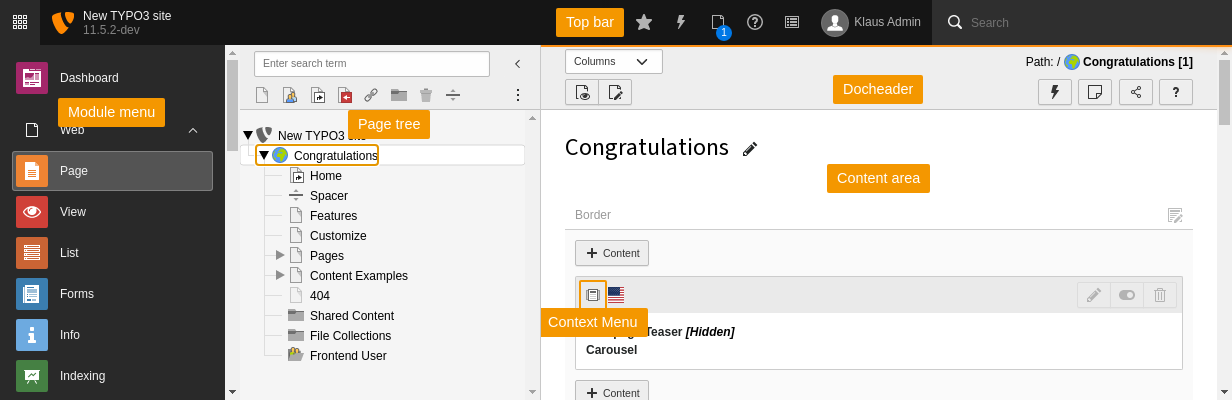
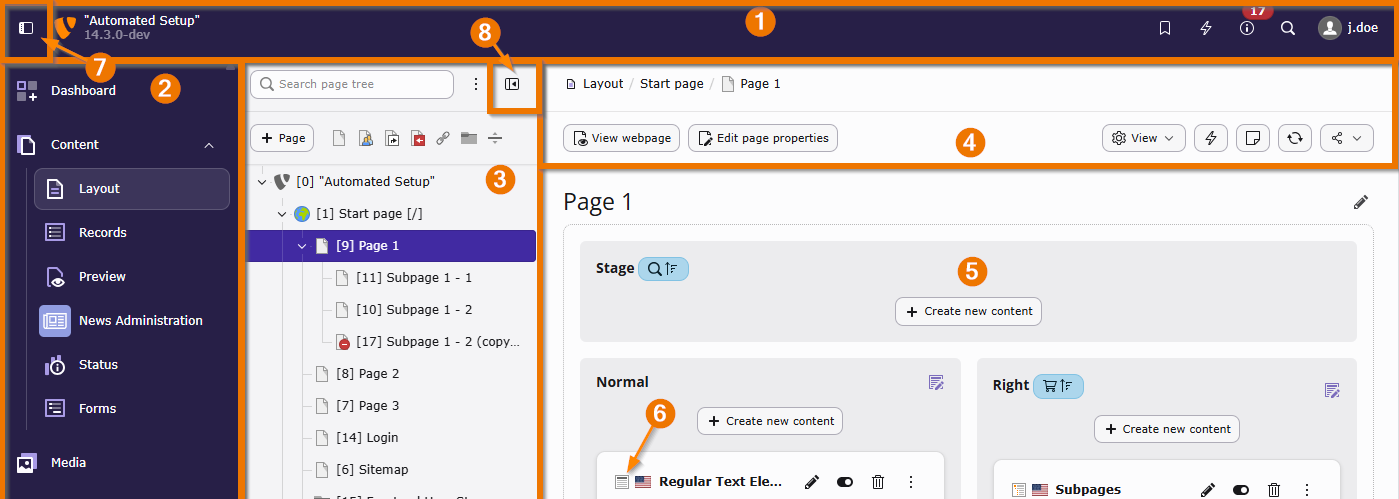
[TASK] Improve Backend GUI section including screenshots
Releases: main

diff --git a/Documentation/ApiOverview/Backend/BackendModules/BackendGUI.rst b/Documentation/ApiOverview/Backend/BackendModules/BackendGUI.rst
@@ -1,69 +1,88 @@
-.. include:: /Includes.rst.txt
-.. index:: ! Backend GUI
-.. _backend-gui:
-.. _backend-modules-structure:
+..  include:: /Includes.rst.txt
+..  index:: ! Backend GUI
+..  _backend-gui:
+..  _backend-modules-structure:
 
 ===========
 Backend GUI
 ===========
 
-The backend user interface is essentially driven by the "backend"
-system extension and extended by many other system extensions.
+The backend user interface is primarily provided by the :composer:`typo3/cms-backend`
+system extension nd extended by additional system and third-party extensions.
 
-It is divided into the following main areas:
+The backend interface is divided into the following main areas:
 
-.. include:: /Images/ManualScreenshots/BackendModules/BackendModulesAreas.rst.txt
+..  figure:: /Images/ManualScreenshots/BackendModules/BackendModulesAreas.png
+    :zoom: lightbox
+    :alt: An overview of the visual structure of the backend, the sections are marked with numbers
 
-Top bar
-  The top bar is always present. It is itself divided into two
-  areas: the logo and top bar tools.
+    An overview of the backend interface: (1) top bar, (2) module menu,
+    (3) page tree / navigation frame, (4) DocHeader, (5) content area,
+    (6) contextual menu, (7) module menu toggle, (8) page tree toggle
 
-  The logo can be changed using the :php:`$GLOBALS['TYPO3_CONF_VARS']['EXTENSIONS']['backend']['backendLogo']` option.
-  Additional top bar tools can be registered using
-  :php:`$GLOBALS['TYPO3_CONF_VARS']['BE']['toolbarItems']`.
+..  figure:: /Images/ManualScreenshots/BackendModules/BackendModuleCollapsed.png
+    :zoom: lightbox
+    :alt: Backend with collapsed module menu and page tree, showing toggles
 
-Module menu
-  This is the main navigation. All modules are structured in main
-  modules (which can be collapsed) and submodules which is where
-  the action really happens.
+    Collapsed navigation areas: (1) module menu toggle, (2) page tree toggle
 
-  The module menu can be opened or closed by using the icon on the top left.
+1.  Top bar
 
-  The chapter :ref:`backend-modules-configuration` describes how new
-  main or submodules are registered.
+    The top bar is always visible and consists of two areas: the logo and the toolbar.
 
-  .. note::
+    The logo can be configured using:
+    :php:`$GLOBALS['TYPO3_CONF_VARS']['EXTENSIONS']['backend']['backendLogo']`.
 
-     In the TYPO3 world, "module" is typically used for
-     the backend. Extension components which add features in the frontend
-     are referred to as "plugins".
+    Additional toolbar items can be registered via:
+    :php:`$GLOBALS['TYPO3_CONF_VARS']['BE']['toolbarItems']`.
 
-Navigation frame
-  Any backend module may have a navigation frame or not. This frame
-  will typically display the page tree or the folder tree, but
-  custom navigation frames are possible.
+2.  Module menu
 
-  The current location (i.e. page or frame) is carried over between
-  navigation frames when changing modules. This means, for example, that
-  when you move from the :guilabel:`Content > Page` module to the
-  :guilabel:`Content > Records` module, the same page stays selected in the page tree.
+    This is the main navigation area. Modules are organized into main modules
+    (collapsible) and submodules, where the actual functionality is implemented.
 
-DocHeader
-  This part is always located above the Content area. It will generally
-  contain a drop-down menu called the "Function menu", which allows to
-  navigate into the various functions offered by the module. When editing
-  it will also contain all the buttons necessary for saving, closing or
-  reverting. It may contain additional buttons for shortcuts
-  or any specific feature needed by the module.
+    The module menu can be toggled using the icon in the top-left corner (7).
 
-Content area
-  This is the actual work area. Any information to show or content
-  to edit will be displayed here.
+    The chapter :ref:`backend-modules-configuration` describes how new
+    main or submodules are registered.
 
-Contextual menus
-  (Right) clicking on record icons will often reveal a contextual menu.
-  New functions can be added to the contextual menus, but the
-  mechanisms vary: the page tree behaves differently than the
-  rest of the backend.
+    ..  note::
 
-  .. include:: /Images/ManualScreenshots/BackendModules/BackendModulesContextualMenu.rst.txt
+        In TYPO3 terminology, "module" refers to backend functionality,
+        while frontend features provided by extensions are called "plugins".
+
+3.  Page tree / navigation frame
+
+    A backend module may include a navigation frame. This typically displays
+    the page tree or folder tree, but custom navigation components are also
+    possible.
+
+    The current selection (for example, a page or folder) is preserved when
+    switching between modules.
+
+4.  DocHeader
+
+    The DocHeader is located above the content area. It typically includes a
+    "Function menu" for navigating module-specific features.
+
+    When editing content, it also provides action buttons such as save, close,
+    and revert. Additional buttons (for example, shortcuts or module-specific
+    actions) may be available.
+
+5.  Content area
+
+    This is the main workspace where content is displayed and edited.
+    Any information to show or content to edit will be displayed here.
+
+6.  Contextual menus
+
+    Right-clicking on record icons typically opens a contextual menu.
+
+    Additional actions can be added to these menus; however, implementation
+    differs depending on the component (for example, the page tree behaves
+    differently from other backend areas).
+
+..  figure:: /Images/ManualScreenshots/BackendModules/BackendModulesContextualMenu.png
+    :zoom: lightbox
+
+    A typical contextual menu appears when clicking on a record icon